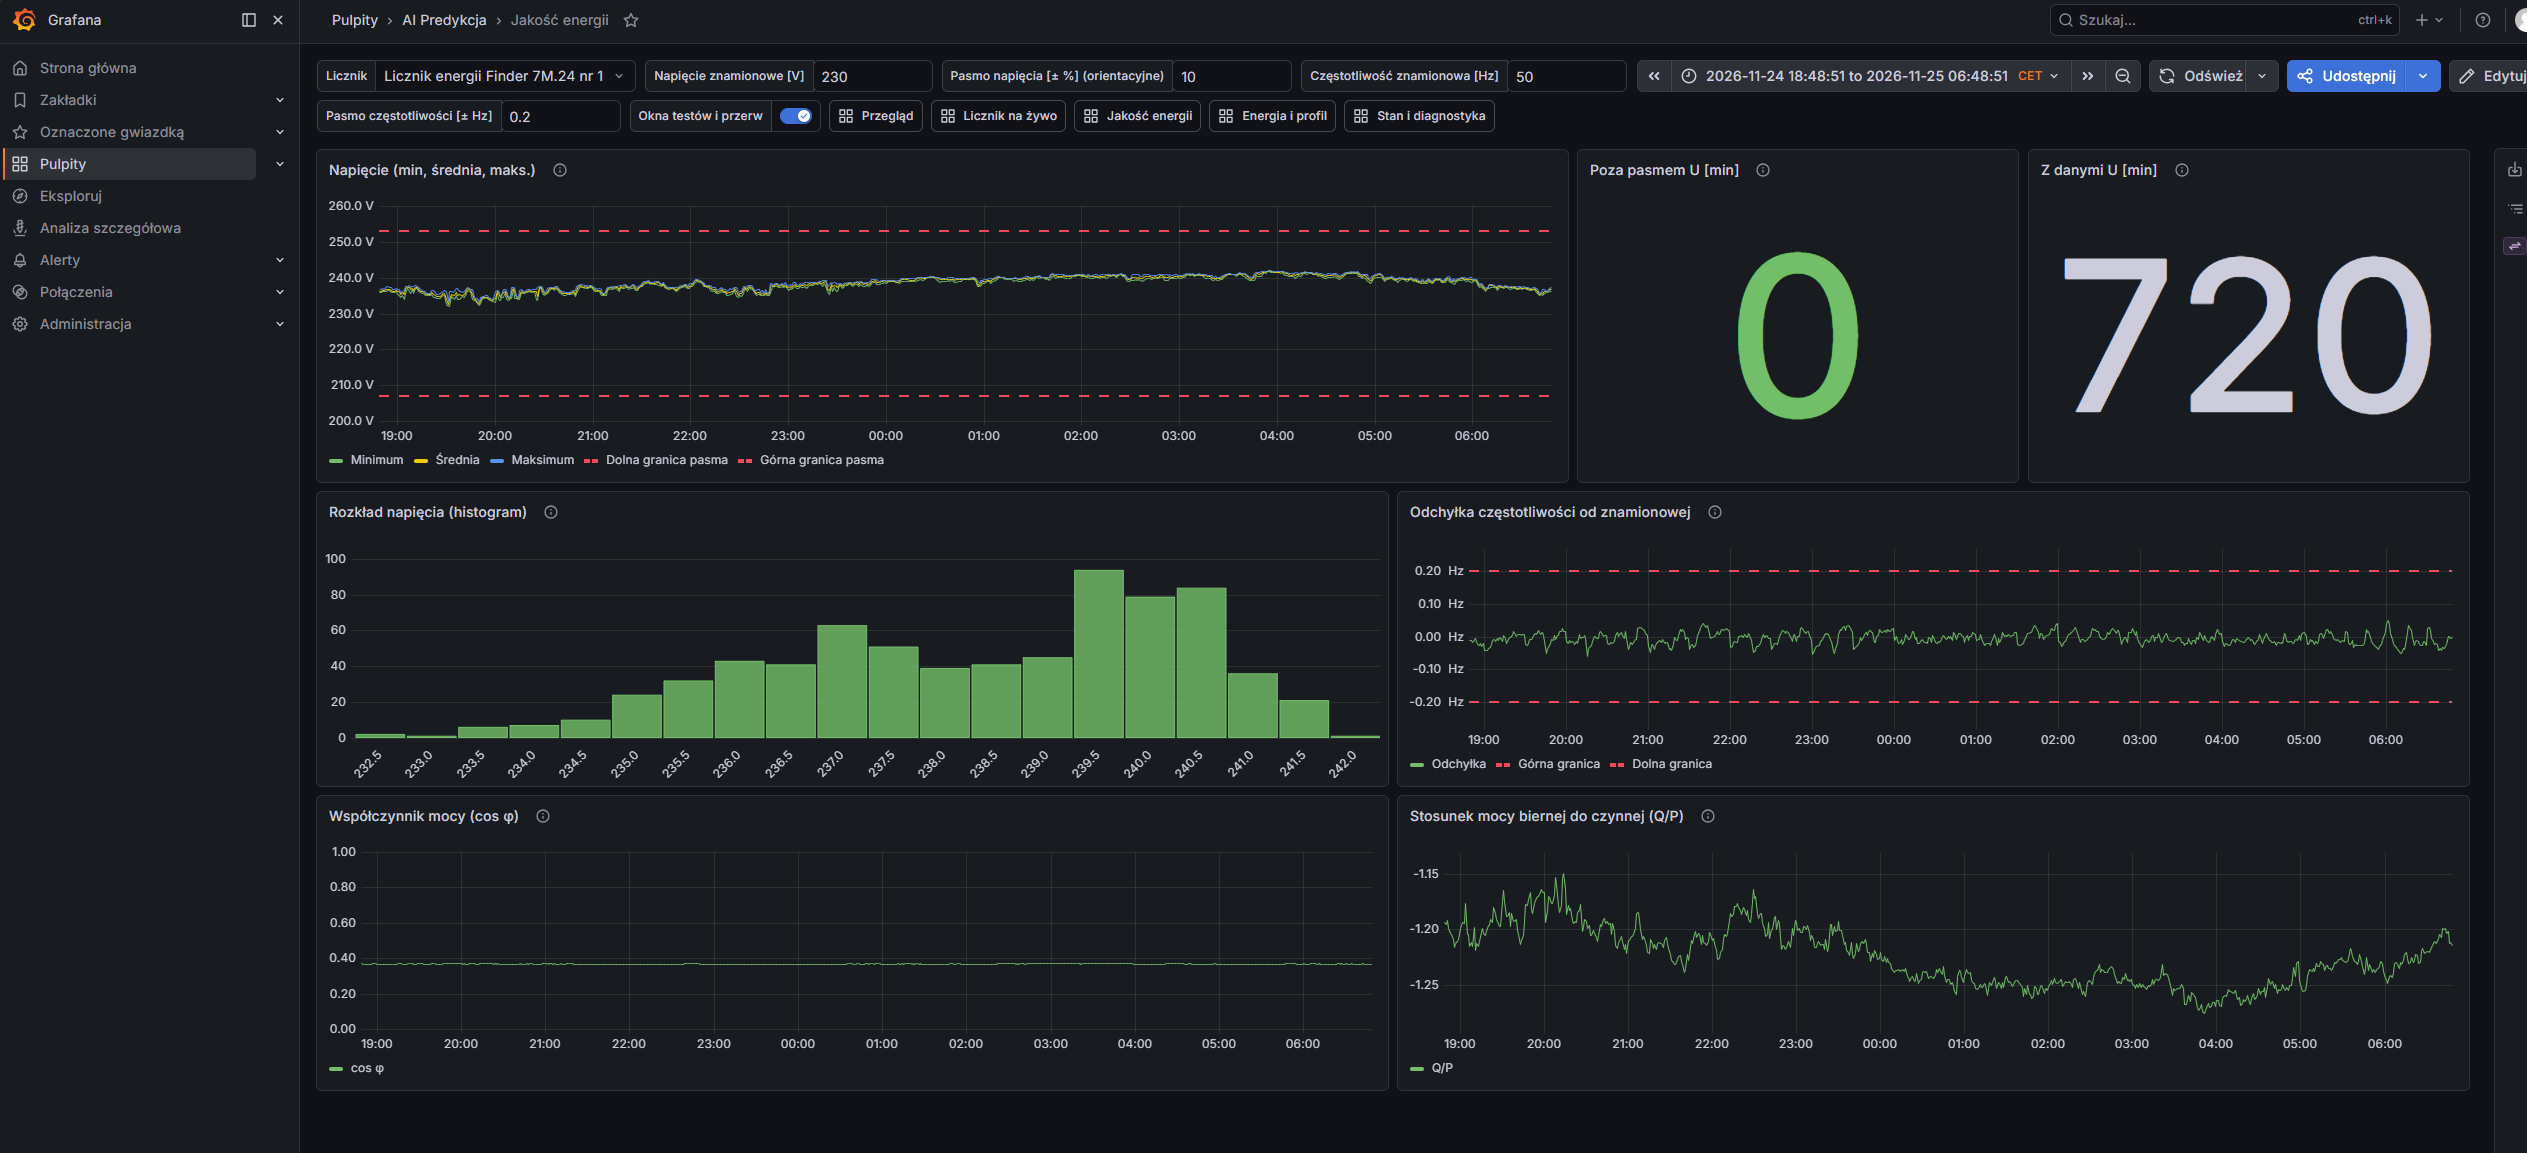
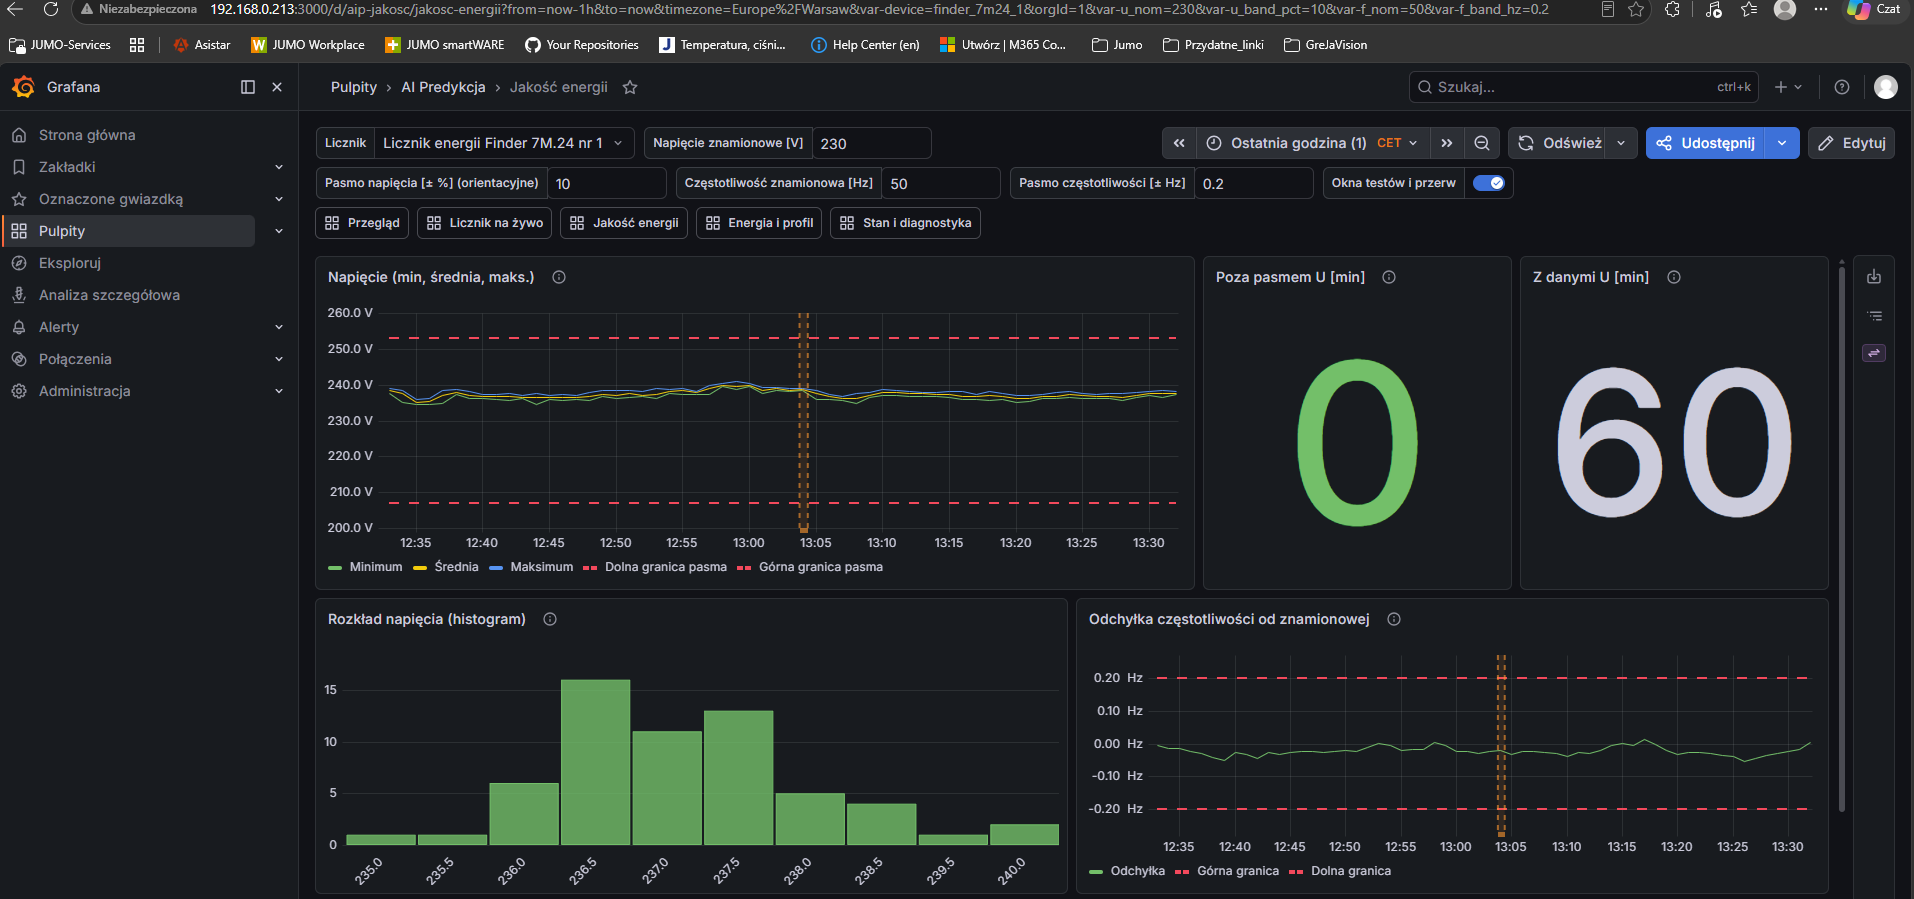
grafana: state timeline resumes after a gap, full tile names, taller values table; review screenshots (E2-k8c)

diff --git a/grafana/generate.py b/grafana/generate.py
@@ -334,28 +334,28 @@ def overview() -> Dash:
 VAR_UNIT = "suffix: var"           # Grafana nie ma jednostki wyświetlającej "var": własny sufiks (K7-V7)
 # metryka, skrót (tytuł kafelka), nazwa wykresu, jednostka, opis, szerokość kafelka
 LIVE = [
-    ("voltage", "U", "Napięcie U", "volt", "Napięcie fazowe [V].", 4),
-    ("current", "I", "Prąd I", "amp", "Prąd [A].", 4),
-    ("active_power", "P", "Moc czynna P", "watt", "Moc czynna P [W]: faktycznie pobierana energia.", 4),
-    ("reactive_power", "Q", "Moc bierna Q", VAR_UNIT, "Moc bierna Q [var].", 3),
-    ("apparent_power", "S", "Moc pozorna S", "voltamp", "Moc pozorna S [VA] = U × I.", 3),
-    ("power_factor", "PF", "Współczynnik mocy PF", "", "PF = P / S (cos φ przy przebiegach sinusoidalnych), bez jednostki.", 3),
-    ("frequency", "f", "Częstotliwość f", "hertz", "Częstotliwość sieci [Hz].", 3),
+    ("voltage", "Napięcie U", "Napięcie U", "volt", "Napięcie fazowe [V].", 4),
+    ("current", "Prąd I", "Prąd I", "amp", "Prąd [A].", 4),
+    ("active_power", "Moc czynna P", "Moc czynna P", "watt", "Moc czynna P [W]: faktycznie pobierana energia.", 4),
+    ("reactive_power", "Moc bierna Q", "Moc bierna Q", VAR_UNIT, "Moc bierna Q [var].", 3),
+    ("apparent_power", "Moc pozorna S", "Moc pozorna S", "voltamp", "Moc pozorna S [VA] = U × I.", 3),
+    ("power_factor", "Współczynnik mocy PF", "Współczynnik mocy PF", "", "PF = P / S (cos φ przy przebiegach sinusoidalnych), bez jednostki.", 3),
+    ("frequency", "Częstotliwość f", "Częstotliwość f", "hertz", "Częstotliwość sieci [Hz].", 3),
 ]
 
 
 NO_V2 = "Brak danych (mapa v1)"          # metryki mapy v2: przed v2 brak wartości = brak danych, nigdy zero
-# metryka, skrót (kafelek), nazwa wykresu, jednostka, opis, szerokość kafelka
+# metryka, tytuł kafelka (pełna nazwa, K8-V2), nazwa wykresu, jednostka, opis, szerokość kafelka
 LIVE_V2 = [
-    ("thd_voltage", "THD U", "THD napięcia (THD U)", "percent",
+    ("thd_voltage", "THD napięcia", "THD napięcia (THD U)", "percent",
      "Zawartość harmonicznych napięcia U1 [%] (mapa v2).", 6),
-    ("thd_current", "THD I", "THD prądu (THD I)", "percent",
+    ("thd_current", "THD prądu", "THD prądu (THD I)", "percent",
      "Zawartość harmonicznych prądu I1 [%] (mapa v2). Zasilacze impulsowe dają wartości rzędu 100–150%. Przy małym prądzie względem zakresu licznika "
      "(80 mA wobec 40 A) wartość może być niepewna.", 6),
     ("phase_angle", "Kąt U–I", "Kąt U–I", "degree",
      "Kąt między napięciem a prądem [°] (mapa v2). U nas kąt jest ujemny przy mocy biernej Q < 0 (zmierzone 25.11.2026: −50,6° przy Q ≈ −9 var); "
      "konwencja znaku Findera nie jest potwierdzona w dokumentacji.", 6),
-    ("meter_temperature", "Temp.", "Temperatura licznika", "celsius",
+    ("meter_temperature", "Temperatura licznika", "Temperatura licznika", "celsius",
      "Temperatura wewnętrzna licznika [°C] (mapa v2), odświeżana w PLC co 10 s.", 6),
 ]
 
@@ -385,7 +385,7 @@ def live() -> Dash:
                         "avg(value) AS \"Średnia\" FROM measurements WHERE $__timeFilter(time) AND "
                         f"{DEV} AND metric IN ('voltage','current','active_power','reactive_power','apparent_power','power_factor','frequency',"
                         "'thd_voltage','thd_current','phase_angle','meter_temperature') "
-                        "GROUP BY metric ORDER BY 1", "table")], decimals=2, no_value=NO_V2), 24, 12, new_row=True)
+                        "GROUP BY metric ORDER BY 1", "table")], decimals=2, no_value=NO_V2), 24, 14, new_row=True)   # K8-V3: 11 wierszy bez przewijania
     charts = [item for item in LIVE] + [item for item in LIVE_V2 if item[0] != "meter_temperature"]      # temperatura: „Stan i diagnostyka”
     for i, (metric, short, title, unit, desc, width) in enumerate(charts):
         extra = {"min_": 0, "max_": 1} if metric == "power_factor" else {}
@@ -637,11 +637,14 @@ SENTINEL = "SELECT $__timeFrom()::timestamptz, NULL"      # wiersz zapewniający
 
 
 def _states(metric_device: str, metric: str, label: str) -> str:
-    """Zmiany stanu metryki + sztuczny stan „brak danych” po luce dłuższej niż $stale_s (zakres do 7 dni)."""
+    """Zmiany stanu metryki + sztuczny stan „brak danych” po luce dłuższej niż $stale_s (zakres do 7 dni).
+    K8-V1: pierwszy wiersz PO luce jest też wierszem stanu, nawet gdy wartość się nie zmieniła (0 -> 0); bez niego oś
+    zostawała w „Brak danych” do końca zakresu."""
     return (
-        f"WITH s AS (SELECT time, value, lag(value) OVER w AS prev, lead(time) OVER w AS next_time FROM measurements "
+        f"WITH s AS (SELECT time, value, lag(value) OVER w AS prev, lag(time) OVER w AS prev_time, lead(time) OVER w AS next_time "
+        f"FROM measurements "
         f"WHERE $__timeFilter(time) AND device_id = {metric_device} AND metric = '{metric}' AND {SPAN_GUARD_7D} WINDOW w AS (ORDER BY time)) "
-        f"SELECT time, value AS \"{label}\" FROM s WHERE prev IS DISTINCT FROM value "
+        f"SELECT time, value AS \"{label}\" FROM s WHERE prev IS DISTINCT FROM value OR time - prev_time > {STALE} "
         f"UNION ALL SELECT time + {STALE}, {NO_DATA_CODE} FROM s WHERE next_time - time > {STALE} "
         f"UNION ALL {SENTINEL} ORDER BY 1")
 

diff --git a/tests/grafana/test_grafana_generator.py b/tests/grafana/test_grafana_generator.py
@@ -134,7 +134,7 @@ def test_units_titles_and_formats_are_readable():
     """K7-V7 (jednostka var), V8 (krótkie tytuły kafelków), V9 (data bez godziny), V10, V11, V13, V15."""
     panels = _panels()
     assert "reactivevoltamp" not in json_text()
-    assert panels[("na-zywo", "Q")]["fieldConfig"]["defaults"]["unit"] == "suffix: var"
+    assert panels[("na-zywo", "Moc bierna Q")]["fieldConfig"]["defaults"]["unit"] == "suffix: var"
     for (name, title), panel in panels.items():
         if panel["type"] == "stat" and panel["gridPos"]["w"] <= 6:
             assert len(title) <= 28, f"{name}/{title}: tytuł kafelka może się obcinać"
@@ -211,7 +211,7 @@ def test_k7c_formatting_fixes():
     control = next(p for (n, t), p in panels.items() if t.startswith("Kontrola całki mocy"))
     for header in ("Licznik [Wh]", "Ekstrap. [Wh]", "W rozdz.", "Rozdz. [Wh]", "Luki"):
         assert header in control["targets"][0]["rawSql"]
-    assert panels[("na-zywo", "Wartości w oknie")]["gridPos"]["h"] >= 9
+    assert panels[("na-zywo", "Wartości w oknie")]["gridPos"]["h"] >= 14
     assert panels[("jakosc", "Poza pasmem U [min]")] and panels[("energia", "Moc maks. profilu")]["gridPos"]["w"] >= 6
     for key, band in ((("jakosc", "Napięcie (min, średnia, maks.)"), "granica pasma"), (("jakosc", "Odchyłka częstotliwości od znamionowej"), "granica")):
         panel = panels[key]
@@ -226,7 +226,7 @@ def test_k7c_formatting_fixes():
 # --- E2-PLC2, krok 2: panele mapy v2 ---------------------------------------------------------------------------------------
 
 V2_PANELS = [
-    ("na-zywo", "THD U"), ("na-zywo", "THD I"), ("na-zywo", "Kąt U–I"), ("na-zywo", "Temp."),
+    ("na-zywo", "THD napięcia"), ("na-zywo", "THD prądu"), ("na-zywo", "Kąt U–I"), ("na-zywo", "Temperatura licznika"),
     ("na-zywo", "THD napięcia (THD U)"), ("na-zywo", "THD prądu (THD I)"),
     ("jakosc", "THD napięcia (THD U)"), ("jakosc", "THD prądu (THD I)"), ("jakosc", "Kąt U–I"),
     ("diagnostyka", "Temperatura licznika"), ("diagnostyka", "Temperatura licznika [°C]"),
@@ -281,3 +281,38 @@ def test_reactive_energy_panels_describe_the_resolution_and_use_the_view():
 def test_rows_per_minute_description_uses_the_v2_model():
     description = _panels()[("diagnostyka", "Wiersze na minutę w bazie")]["description"]
     assert "13 wierszy na sekundę przy mapie v1" in description and "20 przy mapie v2" in description and "1 200 na minutę" in description
+
+
+# --- k8c: K8-V1 (oś stanów po luce), K8-V2 (pełne nazwy kafelków), K8-V3 (tabela bez przewijania) ------------------------------
+
+LIVE_TILE_TITLES = ["Napięcie U", "Prąd I", "Moc czynna P", "Moc bierna Q", "Moc pozorna S", "Współczynnik mocy PF", "Częstotliwość f",
+                    "THD napięcia", "THD prądu", "Kąt U–I", "Temperatura licznika"]
+
+
+def test_live_tiles_have_full_names_and_fit_their_width():
+    """K8-V2: tytuły kafelków to pełne nazwy z symbolem; długość mieści się w najwęższym kafelku (3 z 24 kolumn)."""
+    dash = dashboards()["na-zywo"]
+    tiles = [p for p in dash["panels"] if p["type"] == "stat"]
+    assert [p["title"] for p in tiles] == LIVE_TILE_TITLES
+    for tile in tiles:
+        width_cols = tile["gridPos"]["w"]
+        assert len(tile["title"]) <= 4 + width_cols * 6, f"{tile['title']}: za długi dla {width_cols} kolumn"
+
+
+def test_live_values_table_height_fits_all_rows_without_scrolling():
+    """K8-V3: wysokość panelu dobrana do liczby wierszy (nagłówek + wiersze po 36 px + tytuł i marginesy)."""
+    import re
+
+    panel = _panels()[("na-zywo", "Wartości w oknie")]
+    sql = panel["targets"][0]["rawSql"]
+    metrics = re.search(r"metric IN \(([^)]*)\)", sql).group(1).split(",")
+    needed_px = (len(metrics) + 1) * 36 + 56
+    height_px = panel["gridPos"]["h"] * 30 + (panel["gridPos"]["h"] - 1) * 8
+    assert len(metrics) == 11 and height_px >= needed_px, (len(metrics), height_px, needed_px)
+
+
+def test_state_timeline_query_returns_to_the_state_after_a_gap():
+    """K8-V1: wiersz stanu także dla pierwszego wiersza po luce, gdy wartość się nie zmieniła (0 -> 0)."""
+    for title in ("Łącze z PLC (link_status)", "Stan licznika (meter_status)"):
+        sql = _panels()[("diagnostyka", title)]["targets"][0]["rawSql"]
+        assert "time - prev_time > make_interval(secs => $stale_s)" in sql and "prev IS DISTINCT FROM value" in sql, title

diff --git a/tests/grafana/test_grafana_panels.py b/tests/grafana/test_grafana_panels.py
@@ -5,7 +5,7 @@ import time
 
 import pytest
 
-from grafana_support import RANGES, dashboards, ds_query, effective_seconds, expand_vars, panel_targets, targets
+from grafana_support import RANGES, dashboards, ds_query, effective_seconds, expand_vars, load_generator, panel_targets, targets
 
 M1, M2 = "finder_7m24_1", "finder_7m24_2"
 DASHES = dashboards()
@@ -77,7 +77,7 @@ def test_live_panels_return_data_for_a_short_range(grafana_data):
 
 
 def test_device_variable_separates_the_meters(grafana_data):
-    power = next(t for title, t in targets(DASHES["na-zywo"]) if title == "P")
+    power = next(t for title, t in targets(DASHES["na-zywo"]) if title == "Moc czynna P")
     now = time.time()
     first = ds_query(expand_vars(power["rawSql"], M1), "time_series", now - 900, now)
     second = ds_query(expand_vars(power["rawSql"], M2), "time_series", now - 900, now)
@@ -159,7 +159,7 @@ def test_own_range_panels_return_the_same_data_for_any_dashboard_range(grafana_d
         assert results[0] and results[0][0][0], f"{title}: brak danych"
 
 
-V2_PANEL_TITLES = {"THD U", "THD I", "Kąt U–I", "Temp.", "THD napięcia (THD U)", "THD prądu (THD I)", "Temperatura licznika",
+V2_PANEL_TITLES = {"THD napięcia", "THD prądu", "Kąt U–I", "THD napięcia (THD U)", "THD prądu (THD I)", "Temperatura licznika",
                    "Temperatura licznika [°C]", "Czas pracy licznika", "Czas pracy licznika [dni]"}
 
 
@@ -211,3 +211,21 @@ def test_pf_panel_cos_phi_series_matches_the_stored_angle(grafana_data):
     result = ds_query(expand_vars(target["rawSql"], M1), "time_series", now - 6 * 3600, now, target["refId"])
     values = [v for v in result["frames"][0]["data"]["values"][1] if v is not None]
     assert values and all(abs(v - math.cos(math.radians(-50.5))) < 0.03 for v in values)
+
+
+@pytest.mark.parametrize("title,metric_device", [("Łącze z PLC (link_status)", None), ("Stan licznika (meter_status)", None)])
+def test_state_timeline_resumes_after_a_gap_without_a_change_of_state(grafana_data, title, metric_device):
+    """K8-V1: w danych testowych jest 10-minutowa luka sprzed 3 godzin ze stanem 0 przed i po niej: po „Brak danych” (100)
+    musi być wiersz stanu, bo inaczej oś zostaje w „Brak danych” do końca zakresu."""
+    no_data = load_generator().NO_DATA_CODE
+    panel = next(p for p in DASHES["diagnostyka"]["panels"] if p["title"] == title)
+    target = panel["targets"][0]
+    now = time.time()
+    result = ds_query(expand_vars(target["rawSql"], M1), target["format"], now - 6 * 3600, now, target["refId"])
+    assert not result["error"], result["error"]
+    values = [v for v in result["frames"][0]["data"]["values"][1] if v is not None]
+    assert no_data in values, "luka sprzed 3 godzin powinna dać stan „Brak danych”"
+    for position, value in enumerate(values):
+        if value == no_data:
+            assert position + 1 < len(values) and values[position + 1] != no_data, f"{title}: po „Brak danych” nie wraca stan"
+    assert values[-1] != no_data, f"{title}: oś kończy się w „Brak danych” mimo płynących danych"

diff --git a/docs/handoff/e2-k8a-visual-review.md b/docs/handoff/e2-k8a-visual-review.md
@@ -1,0 +1,42 @@
+# E2-k8a – review wizualny v4 (architekt)
+
+Data: 2026-11-25, ok. 13:30 lokalnie (zakres „Ostatnia godzina”, po teście restartu komputera).
+Zrzuty: `docs/images/etap2/03, 04, 04b, 04c, 05, 05b, 07b` oraz `11-grafana-diagnostyka-blad-brak-danych.png`.
+
+**Werdykt: DO POPRAWY (jedna ważna usterka) – krok k8c przed częścią B.**
+
+## Potwierdzone
+
+- Licznik na żywo: nowe kafelki THD U 2,39 %, THD I 139,7 %, kąt −50,47°, temp. 30,3 °C; tabela z nowymi wielkościami.
+- Jakość energii: PF 0,37 i cos φ 0,63 jako osobne serie; THD U, THD I, kąt z min/średnią/maks.
+- Diagnostyka: temperatura i czas pracy licznika (14,72 d, rośnie liniowo); „Sekundy bez pomiaru mocy” w godzinie 13:00 = 37 s – zgodnie z luką po restarcie; adnotacja `ipc_reboot` na wszystkich wykresach.
+
+## K8-V1 (ważna) – oś stanów pokazuje „Brak danych”, choć dane płyną
+
+Na `11-grafana-diagnostyka-blad-brak-danych.png` panele „Łącze z PLC (link_status)” i „Stan licznika (meter_status)”
+pokazują „Brak danych” od ok. 13:00 do końca zakresu (13:31), mimo że w tym czasie jest 20 wierszy/s, a „Kod błędu”
+pokazuje „Brak błędu”. Luka po restarcie trwała 37 s (12:03:47–12:04:24 UTC).
+Hipoteza (do sprawdzenia, nie wniosek): zapytanie wstawia znacznik „Brak danych” na początku luki i nie wstawia
+powrotu do stanu po luce, gdy wartość stanu się nie zmieniła (0 → 0). To ten sam typ błędu co W-2 (brak wiersza
+zamykającego). Poprawka + test na danych z luką bez zmiany stanu.
+
+## K8-V2 – pełne nazwy w kafelkach (prośba Grzegorza)
+
+Licznik na żywo: tytuły kafelków z pełną nazwą i symbolem, np. „Napięcie U”, „Prąd I”, „Moc czynna P”,
+„Moc bierna Q”, „Moc pozorna S”, „Współczynnik mocy PF”, „Częstotliwość f”, „THD napięcia”, „THD prądu”,
+„Kąt U–I”, „Temperatura licznika”. Bez obcinania tytułów (test jak w k7c).
+
+## K8-V3 – „Wartości w oknie” znowu przewija się
+
+Po dodaniu wielkości v2 tabela ma 11 wierszy i pasek przewijania (regresja W-8). Wysokość panelu dopasować
+do liczby wierszy.
+
+## K8-V4 – sprawdzić „Epizody błędu licznika dziś” = 36
+
+O 06:10 kafelek pokazywał 14. Sprawdź zapytaniem liczbę przejść `meter_status` 0 → ≠ 0 od północy lokalnej
+i godziny epizodów (nowe serie? E2-PLC1). Wynik do raportu – tylko opis.
+
+## Dalej
+
+k8c (bez osobnego planu): K8-V1…V4, testy, wdrożenie R-1, raport `e2-k8c-report.md`. Potem Grzegorz robi
+zrzut 07 (Diagnostyka) i zrzuty Energii i profilu (06, 06b, 06c, energia bierna).
